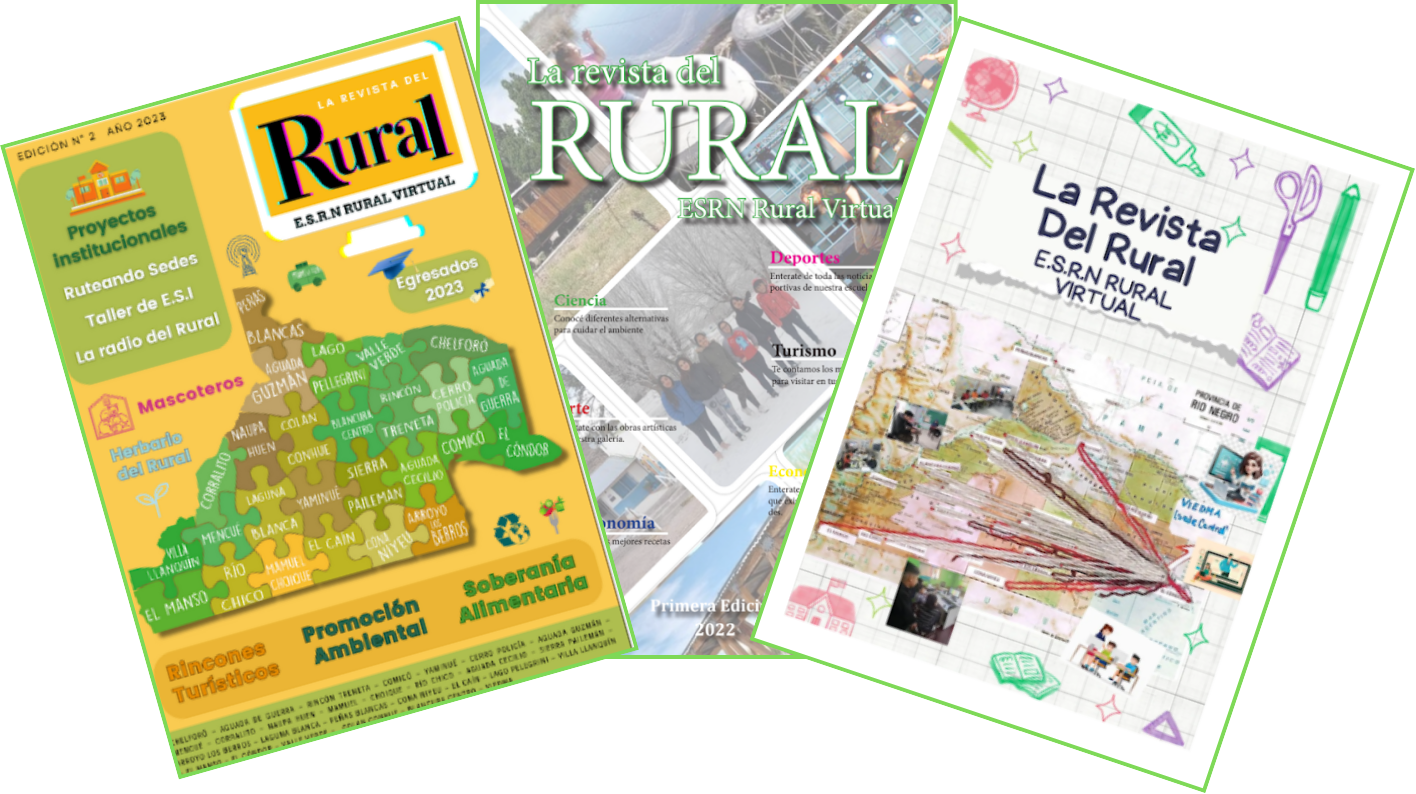
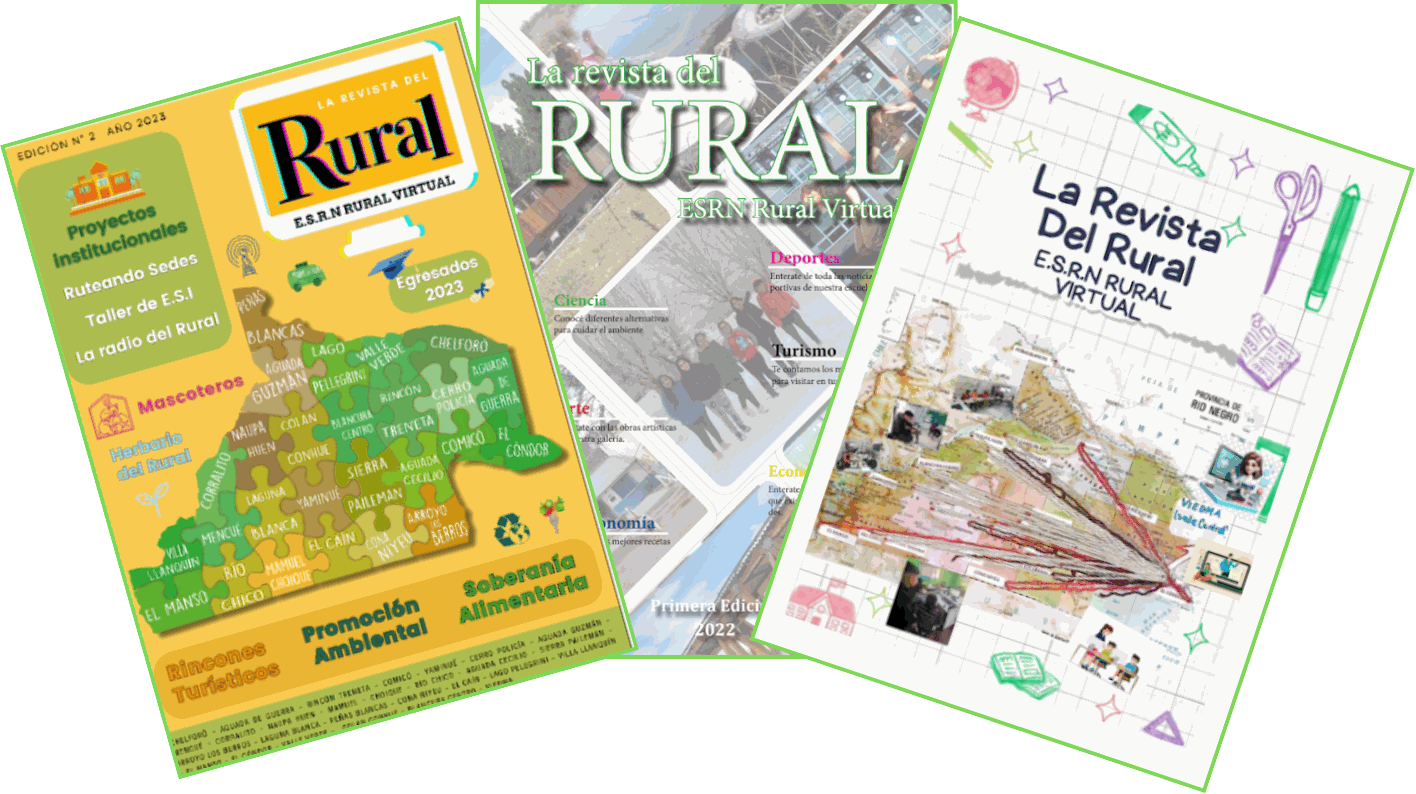
revistas.png a 256 colores (232 KB, alfa intacto) y optimizador de imagenes sueltas

diff --git a/construir_revista_v2.py b/construir_revista_v2.py
@@ -9,7 +9,9 @@ Image.MAX_IMAGE_PIXELS = None
 # ven a mas de ~830 px de ancho, pero el visor de fotos las agranda: 1600
 # cubre retina y el visor sin cargar 9 MB por foto.
 MAX_IMAGEN = 1600
-CALIDAD_JPG = 84
+CALIDAD_JPG = 84    # JPEG y tambien WEBP
+PNG_ALFA_MAX = 300 * 1024    # un PNG con alfa mas gordo que esto pasa a 256 colores    # JPEG y tambien WEBP
+PNG_ALFA_MAX = 300 * 1024    # un PNG con alfa mas gordo que esto pasa a 256 colores
 
 BASE = os.path.dirname(os.path.abspath(__file__))
 DATOS = os.path.join(BASE, "datos", "ediciones.json")
@@ -232,8 +234,9 @@ def optimizar_imagen(ruta):
     w, h = im.size
     escalar = max(w, h) > MAX_IMAGEN
     a_jpg = ext == ".png" and not alfa
+    gorda = alfa and ext == ".png" and os.path.getsize(ruta) > PNG_ALFA_MAX
 
-    if not escalar and not a_jpg:
+    if not escalar and not a_jpg and not gorda:
         im.close()
         return ruta
 
@@ -257,6 +260,20 @@ def optimizar_imagen(ruta):
         im.save(ruta, "PNG", optimize=True)
     elif ext == ".webp":
         im.save(ruta, "WEBP", quality=CALIDAD_JPG, method=5)
+
+    # Un PNG con alfa puede quedar pesadisimo (collages con huecos transparentes).
+    # Con 256 colores baja ~85% y, al tamano al que se muestra, no se nota.
+    if alfa and ext == ".png" and os.path.isfile(ruta) and \
+            os.path.getsize(ruta) > PNG_ALFA_MAX:
+        try:
+            im2 = Image.open(ruta).convert("RGBA")
+            q = im2.quantize(colors=256, method=Image.FASTOCTREE,
+                             dither=Image.NONE)
+            q.save(ruta, "PNG", optimize=True)
+            q.close()
+            im2.close()
+        except Exception:
+            pass
     im.close()
     return nueva
 
@@ -821,6 +838,14 @@ def main():
     articulos = datos.get("articulos") or []
 
     os.makedirs(EDIT, exist_ok=True)
+
+    # Imagenes sueltas que viven directo en ediciones/01 (grupo, revistas, mapa):
+    # no las copia ningun paso de los articulos, pero pesan igual.
+    for nombre in sorted(os.listdir(EDIT)):
+        ruta = os.path.join(EDIT, nombre)
+        if os.path.isfile(ruta) and os.path.splitext(nombre)[1].lower() in (
+                ".jpg", ".jpeg", ".png", ".webp"):
+            optimizar_imagen(ruta)
 
     def nav_html(pre=""):
         pre_link = "<li><a href='%spresentacion.html' data-sec='presentacion'>Presentación</a></li>" % pre
